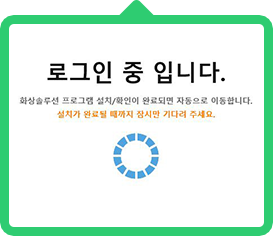
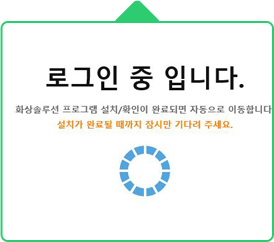
change image with smaller border, reduce circle border to 2px and update the color

diff --git a/css/level-test-content2.css b/css/level-test-content2.css
@@ -3,14 +3,6 @@ section .level-test.content-two {
     overflow-x: hidden;
 }
 
-section .level-test.content-two hr {
-    position: absolute;
-    top: 625px;
-    left: 0;
-    right: 0;
-    border: 5px solid #dbdbdb;
-}
-
 section .level-test.content-two h2 {
     margin: 100px 20px 66px;
     font-size: 34px;
@@ -48,20 +40,22 @@ section .level-test .content.row .cover .level {
     height: 170px;
     width: 170px;
     border-radius: 100%;
-    border: 10px solid #dbdbdb;
     margin-bottom: 48px;
 }
 
 section .level-test .content.row .cover .level.one {
-    background-color: #37DBD0;
+    border: 2px solid #37a8b3;
+    background-color: #3fc0cc;
 }
 
 section .level-test .content.row .cover .level.two {
-    background-color: #2ECC71;
+    border: 2px solid #29b362;
+    background-color: #2ecc71;
 }
 
 section .level-test .content.row .cover .level.three {
-    background-color: #F75C4C;
+    border: 2px solid #bd483a;
+    background-color: #e74c3c;
 }
 
 

diff --git a/part/level-test-content2.php b/part/level-test-content2.php
@@ -4,11 +4,8 @@ wp_enqueue_style('level-test-content2', td() . '/css/level-test-content2.css');
 
 
 <section class="level-test content-two">
-    <hr>
     <div>
-
         <h2><?php _text('"Level Test Page" : \'Block 2\' : Title')?></h2>
-
         <div class="content row">
             <div class="col-sm-4">
                 <div class="cover">
